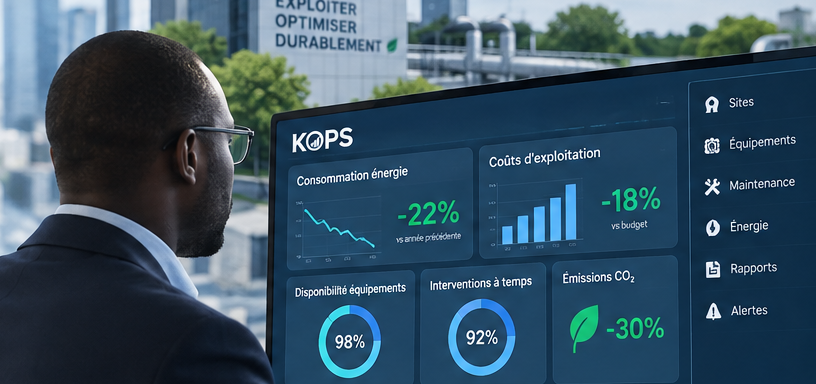
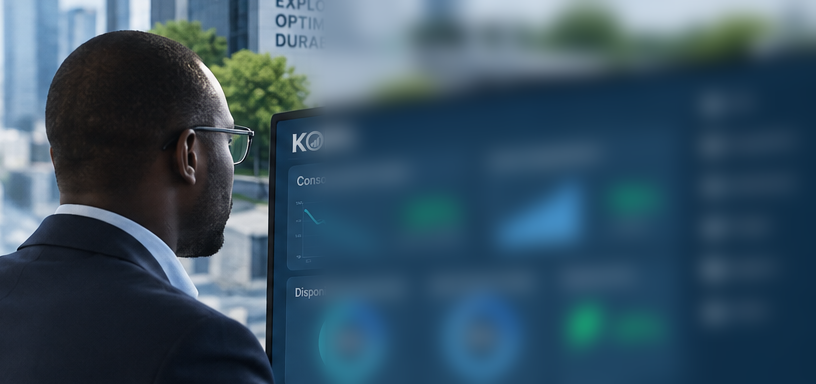
Rend illisibles les valeurs d'illustration du visuel d'accueil
Les pourcentages affichés sur le tableau de bord de la maquette sont des
valeurs d'illustration : un flou gaussien est appliqué à la zone de l'écran
pour qu'ils ne puissent pas être lus ni pris pour des résultats KOPS. Le
dirigeant reste net et l'univers visuel du tableau de bord est conservé.

- images/kops-visuel-accueil.png : flou de la zone écran, transition douce
- index.html : texte alternatif mis en accord avec l'image

Aucun autre contenu, texte ou section modifié ; la section Preuves et ses
contenus provisoires entre crochets restent inchangés.

Claude-Session: https://claude.ai/code/session_01QhPEaDdAamn6TjnrtC3ybt

diff --git a/index.html b/index.html
@@ -48,7 +48,7 @@
       </div>
       <img class="accueil__visuel"
            src="images/kops-visuel-accueil.png"
-           alt="Un dirigeant consulte un tableau de bord KOPS suivant la consommation d'énergie, les coûts d'exploitation, la disponibilité des équipements, les interventions et les émissions de CO2."
+           alt="Un dirigeant consulte un tableau de bord KOPS. L'écran est volontairement flouté : les valeurs qu'il affiche sont une illustration et ne représentent pas des résultats KOPS."
            width="816" height="384"
            decoding="async">
     </div>
